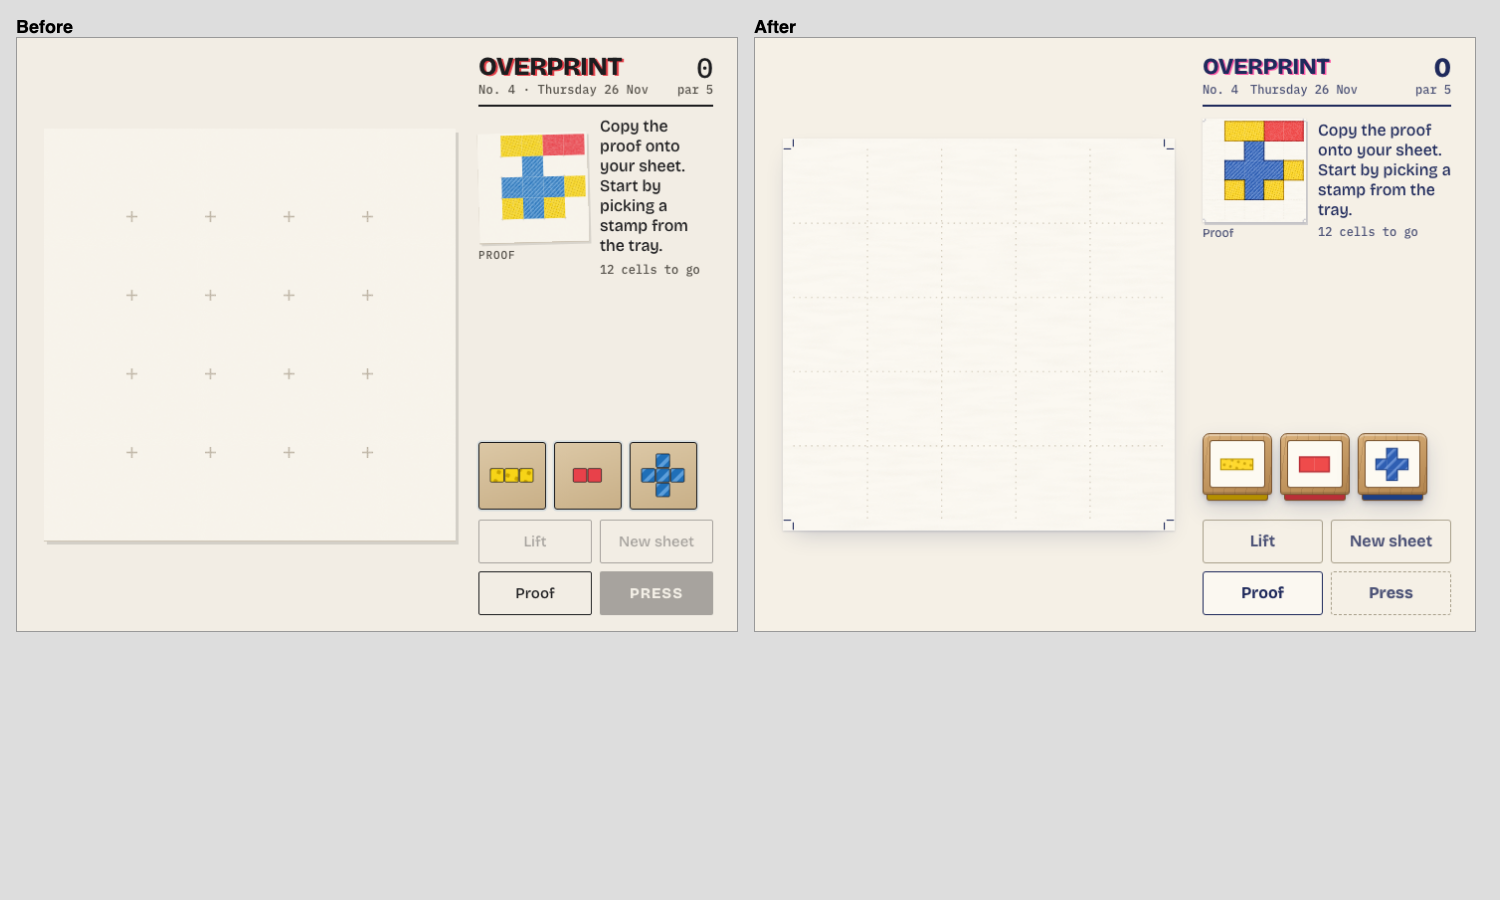
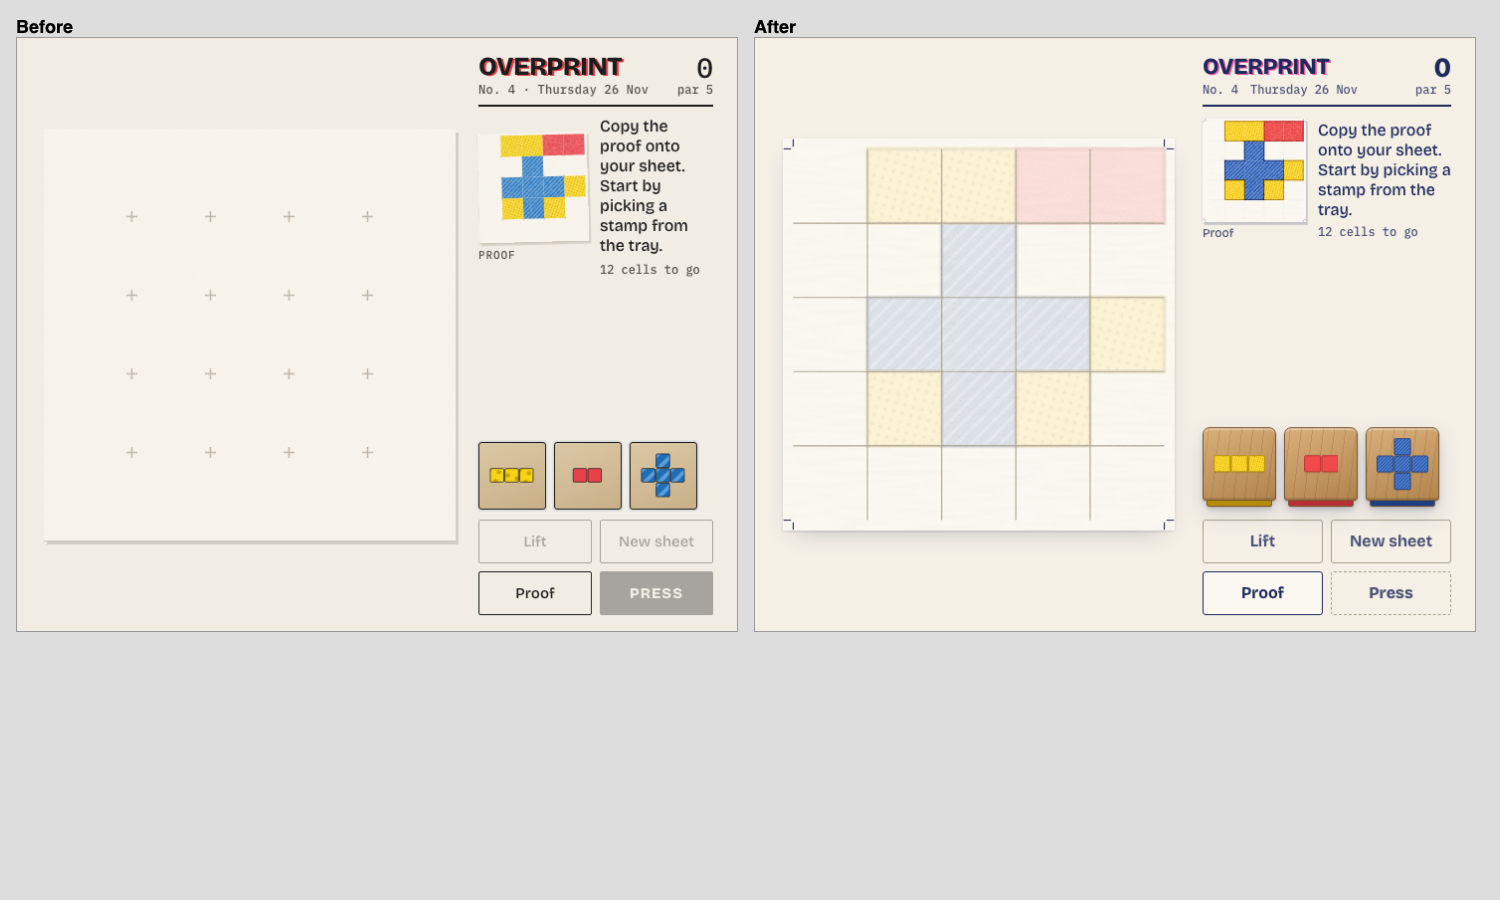
Stamp faces drawn as distinct cells at a shared cell size (splash: the target's own cell size), rubber fills the block, bigger tray tiles, faint target ghost and stronger guides on the working sheet

Changed region(s): [[0.552, 0.1556, 0.7973, 0.4978], [0.7973, 0.4667, 0.9813, 0.5911]]

diff --git a/src/client/StampButton.tsx b/src/client/StampButton.tsx
@@ -1,38 +1,46 @@
 import { shapeOf, type Stamp } from '../shared/engine';
 import { INK_NAME, INK_TEXTURE_NAME, INK_VAR, InkDefs, inkFill } from './ink';
 
-/** The index label on top of a stamp block: the design, printed once in its ink. */
-export function StampGlyph({ stamp, idPrefix }: { stamp: Stamp; idPrefix: string }) {
-  const shape = shapeOf(stamp.shape);
+export function shapeDims(stamp: Stamp): { rows: number; cols: number } {
   let rows = 0;
   let cols = 0;
-  for (const [r, c] of shape) {
+  for (const [r, c] of shapeOf(stamp.shape)) {
     rows = Math.max(rows, r + 1);
     cols = Math.max(cols, c + 1);
   }
-  const u = 20;
-  const span = Math.max(rows, cols) * u + 6;
-  const ox = (span - cols * u) / 2;
-  const oy = (span - rows * u) / 2;
+  return { rows, cols };
+}
+
+/**
+ * The rubber face: one square per cell, the same proportions as a cell on the sheet, so the
+ * number of cells reads at a glance. Its size comes from the CSS variable --cell.
+ */
+export function StampFace({ stamp, idPrefix }: { stamp: Stamp; idPrefix: string }) {
+  const { rows, cols } = shapeDims(stamp);
+  const u = 100;
+  const gap = 7;
   const id = `${idPrefix}-${stamp.id}`;
-  const set = new Set(shape.map(([r, c]) => `${r},${c}`));
-  // outline of the printed design, so it reads as one rubber face rather than tiles
-  const d: string[] = [];
-  for (const [r, c] of shape) {
-    const x = ox + c * u;
-    const y = oy + r * u;
-    if (!set.has(`${r - 1},${c}`)) d.push(`M${x} ${y}H${x + u}`);
-    if (!set.has(`${r + 1},${c}`)) d.push(`M${x} ${y + u}H${x + u}`);
-    if (!set.has(`${r},${c - 1}`)) d.push(`M${x} ${y}V${y + u}`);
-    if (!set.has(`${r},${c + 1}`)) d.push(`M${x + u} ${y}V${y + u}`);
-  }
   return (
-    <svg viewBox={`-3 -3 ${span + 6} ${span + 6}`} aria-hidden="true" className="stamp-glyph">
+    <svg
+      viewBox={`0 0 ${cols * u} ${rows * u}`}
+      aria-hidden="true"
+      className="stamp-face"
+      style={{ width: `calc(var(--cell) * ${cols})`, height: `calc(var(--cell) * ${rows})` }}
+    >
       <InkDefs id={id} />
-      {shape.map(([r, c], i) => (
-        <rect key={i} x={ox + c * u} y={oy + r * u} width={u + 0.3} height={u + 0.3} fill={inkFill(id, stamp.ink)} />
+      {shapeOf(stamp.shape).map(([r, c], i) => (
+        <rect
+          key={i}
+          x={c * u + gap / 2}
+          y={r * u + gap / 2}
+          width={u - gap}
+          height={u - gap}
+          rx="6"
+          fill={inkFill(id, stamp.ink)}
+          strokeWidth="5"
+          style={{ stroke: INK_VAR[stamp.ink].edge }}
+        />
       ))}
-      <path d={d.join('')} fill="none" strokeWidth="2" strokeLinecap="square" style={{ stroke: INK_VAR[stamp.ink].edge }} />
     </svg>
   );
 }
@@ -41,14 +49,33 @@ export function stampLabel(stamp: Stamp): string {
   return `${INK_NAME[stamp.ink]} stamp, ${INK_TEXTURE_NAME[stamp.ink]}, ${shapeOf(stamp.shape).length} cells`;
 }
 
-/** A rubber stamp seen from above: a wooden block, its paper index label, and the inked rubber lip. */
-export function StampBlock({ stamp, idPrefix }: { stamp: Stamp; idPrefix: string }) {
+/**
+ * A rubber stamp seen from above: the inked rubber face mounted on a wooden block, with the
+ * rubber's edge showing under the front of the block. `slot` sizes the block (in cells) so a
+ * set of blocks can share one size; without it the block hugs its own face.
+ */
+export function StampBlock({
+  stamp,
+  idPrefix,
+  slot,
+}: {
+  stamp: Stamp;
+  idPrefix: string;
+  slot?: { rows: number; cols: number };
+}) {
+  const own = shapeDims(stamp);
+  const s = slot ?? own;
   return (
-    <span className="block" style={{ ['--rubber' as string]: INK_VAR[stamp.ink].edge }}>
+    <span
+      className="block"
+      style={{
+        ['--rubber' as string]: INK_VAR[stamp.ink].edge,
+        ['--slot-cols' as string]: s.cols,
+        ['--slot-rows' as string]: s.rows,
+      }}
+    >
       <span className="block-top">
-        <span className="block-label">
-          <StampGlyph stamp={stamp} idPrefix={idPrefix} />
-        </span>
+        <StampFace stamp={stamp} idPrefix={idPrefix} />
       </span>
       <span className="block-lip" aria-hidden="true" />
     </span>
@@ -60,11 +87,13 @@ export function StampButton({
   stamp,
   selected,
   uses,
+  slot,
   onSelect,
 }: {
   stamp: Stamp;
   selected: boolean;
   uses: number;
+  slot: { rows: number; cols: number };
   onSelect: () => void;
 }) {
   return (
@@ -75,7 +104,7 @@ export function StampButton({
       aria-label={`${stampLabel(stamp)}${uses ? `, pressed ${uses} times` : ''}`}
       onClick={onSelect}
     >
-      <StampBlock stamp={stamp} idPrefix="tray" />
+      <StampBlock stamp={stamp} idPrefix="tray" slot={slot} />
       {uses > 0 && <span className="stamp-uses">{uses}</span>}
     </button>
   );

diff --git a/src/client/styles.css b/src/client/styles.css
@@ -467,10 +467,20 @@ button {
 
 /* ---------- stamp blocks ---------- */
 
+/* tray: every block the same size; faces share one cell size so cell counts compare at a glance */
+.tray {
+  --tile: 96px;
+  --cell: calc((var(--tile) - 22px) / var(--slot));
+}
+
+.tray.n4 {
+  --tile: 80px;
+}
+
 .stamp {
   position: relative;
-  width: 76px;
-  height: 80px;
+  width: var(--tile);
+  height: calc(var(--tile) + 6px);
   padding: 0;
   border: 0;
   background: none;
@@ -478,21 +488,25 @@ button {
   transition: transform var(--dur-short) var(--ease-out);
 }
 
-.block {
+.stamp .block {
   position: absolute;
-  inset: 0 0 6px;
-  display: flex;
+  inset: 0;
+}
+
+.block {
+  display: inline-flex;
   flex-direction: column;
   border-radius: 7px;
   filter: drop-shadow(0 3px 2px var(--shade)) drop-shadow(0 8px 10px var(--shade));
   transition: filter var(--dur-short) var(--ease-out);
 }
 
-/* the top of the block: end grain, a bevel, and the paper label with the design on it */
+/* the block: end grain and a bevel, with the inked rubber face mounted on it */
 .block-top {
   flex: 1;
   display: grid;
   place-items: center;
+  padding: var(--s-2);
   border-radius: 7px 7px 3px 3px;
   border: 1.5px solid var(--wood-edge);
   background:
@@ -503,24 +517,12 @@ button {
     inset 0 -2px 0 var(--bevel-lo);
 }
 
-.block-label {
-  width: 78%;
-  height: 78%;
-  display: grid;
-  place-items: center;
-  padding: var(--s-1);
-  border-radius: 2px;
-  background: var(--label);
-  box-shadow: 0 0 0 1px var(--wood-edge);
-}
-
-.stamp-glyph {
+.stamp-face {
   display: block;
-  width: 100%;
-  height: 100%;
+  filter: drop-shadow(0 1px 0 var(--bevel-lo));
 }
 
-/* the rubber, inked, showing under the front edge of the block */
+/* the rubber's edge, inked, showing under the front of the block */
 .block-lip {
   height: 6px;
   margin: 0 var(--s-1);
@@ -543,7 +545,7 @@ button {
   position: absolute;
   left: 18%;
   right: 18%;
-  bottom: -10px;
+  bottom: -12px;
   height: 3px;
   border-radius: 2px;
   background: var(--ink);
@@ -564,6 +566,11 @@ button {
   font-family: var(--font-mono);
   font-size: var(--t-xs);
   font-variant-numeric: tabular-nums;
+}
+
+/* the faint target on a working sheet: where to aim */
+.aim {
+  opacity: 0.16;
 }
 
 /* ---------- onboarding: a soft pulse on what to touch next ---------- */
@@ -769,10 +776,16 @@ svg.coach {
   gap: clamp(8px, 3vw, 16px);
 }
 
+.equation {
+  --sheet-size: min(36vw, 30vh, 230px);
+  --cell: calc(var(--sheet-size) * 100 / 528);
+}
+
 .splash-sheet {
   display: block;
-  width: min(44vw, 40vh, 230px);
-  height: min(44vw, 40vh, 230px);
+  flex-shrink: 0;
+  width: var(--sheet-size);
+  height: var(--sheet-size);
   box-shadow:
     0 1px 2px var(--shade),
     0 10px 20px -10px var(--shade-deep);
@@ -795,19 +808,20 @@ svg.coach {
   list-style: none;
   margin: 0;
   padding: 0;
-  display: grid;
-  grid-template-columns: repeat(2, auto);
+  display: flex;
+  flex-wrap: wrap;
+  align-items: flex-end;
+  justify-content: center;
   gap: var(--s-2);
-}
-
-.eq-stamps.n2 {
-  grid-template-columns: auto;
+  max-width: 100%;
 }
 
 .eq-stamp {
-  position: relative;
-  width: min(17vw, 15vh, 76px);
-  height: min(18vw, 16vh, 80px);
+  display: flex;
+}
+
+.eq-stamp .block-top {
+  padding: 6px;
 }
 
 .eq-presses {
@@ -833,16 +847,10 @@ svg.coach {
   justify-content: center;
 }
 
+
 @media (min-width: 560px) {
-  .eq-stamps,
-  .eq-stamps.n2 {
-    grid-template-columns: repeat(4, auto);
-  }
-  .eq-stamps.n2 {
-    grid-template-columns: repeat(2, auto);
-  }
-  .eq-stamps.n3 {
-    grid-template-columns: repeat(3, auto);
+  .equation {
+    --sheet-size: min(40vh, 230px);
   }
 }
 
@@ -871,9 +879,8 @@ svg.coach {
   .app .tray {
     gap: var(--s-2);
   }
-  .app .stamp {
-    width: 70px;
-    height: 74px;
+  .app .tray {
+    --tile: 74px;
   }
 }
 

diff --git a/src/client/game.tsx b/src/client/game.tsx
@@ -10,7 +10,7 @@ import { nextTitle, titleFor } from '../shared/titles';
 import { clearDraft, fetchState, loadDraft, saveDraft, sendComplete, shareResult, wearFlair } from './api';
 import { journey } from './journey';
 import { Sheet, placeAt } from './Sheet';
-import { StampButton } from './StampButton';
+import { StampButton, shapeDims } from './StampButton';
 import { InkChip } from './ink';
 import { duration, longDate, parLine, untilNextPrint } from './format';
 import { postDate } from './context';
@@ -305,6 +305,8 @@ export function App() {
     setGhost(null);
   };
 
+  // every tray block is the same size, with faces drawn at one shared cell size
+  const slotSize = Math.max(2, ...puzzle.stamps.map((s) => Math.max(shapeDims(s).rows, shapeDims(s).cols)));
   const uses = (id: string) => draft.presses.filter((p) => p.stamp === id).length;
   const elapsed = draft.startedAt && !finished ? Math.max(0, now - draft.startedAt) : 0;
 
@@ -362,17 +364,23 @@ export function App() {
           fresh={fresh}
           ghost={stamp && ghost && !finished ? { stamp, ...ghost } : null}
           overlay={comparing ? puzzle.target : null}
+          aim={finished ? null : puzzle.target}
           onPointerCell={finished ? undefined : onCell}
           className={`work-sheet ${solvedNow || finished ? 'is-done' : ''} ${stamp && !ghost && !finished && draft.presses.length === 0 ? 'coach' : ''}`}
         />
       </section>
 
-      <section className={`tray ${!finished && !stamp && draft.presses.length === 0 ? 'coach' : ''}`} aria-label="Stamps">
+      <section
+        className={`tray ${!finished && !stamp && draft.presses.length === 0 ? 'coach' : ''} n${puzzle.stamps.length}`}
+        aria-label="Stamps"
+        style={{ ['--slot' as string]: slotSize }}
+      >
         {puzzle.stamps.map((s) => (
           <StampButton
             key={s.id}
             stamp={s}
             uses={uses(s.id)}
+            slot={{ rows: slotSize, cols: slotSize }}
             selected={selected === s.id}
             onSelect={() => {
               // Re-tapping the selected stamp keeps it selected, so "tap stamp, tap sheet" never loses a press.

diff --git a/src/client/Sheet.tsx b/src/client/Sheet.tsx
@@ -93,6 +93,8 @@ type Props = {
   className?: string | undefined;
   /** Stronger cell lines so a flat print reads as a puzzle grid. */
   grid?: boolean | undefined;
+  /** A faint ghost of the target under the presses, so a fresh sheet shows where to aim. */
+  aim?: readonly Cell[] | null | undefined;
 };
 
 function flatRegions(svgId: string, cells: readonly Cell[]) {
@@ -102,7 +104,7 @@ function flatRegions(svgId: string, cells: readonly Cell[]) {
   });
 }
 
-export function Sheet({ id, label, stamps, flat, presses, fresh, ghost, overlay, onPointerCell, className, grid }: Props) {
+export function Sheet({ id, label, stamps, flat, presses, fresh, ghost, overlay, onPointerCell, className, grid, aim }: Props) {
   const ref = useRef<SVGSVGElement>(null);
   const dragging = useRef(false);
 
@@ -182,7 +184,8 @@ export function Sheet({ id, label, stamps, flat, presses, fresh, ghost, overlay,
 
       <rect x={-M} y={-M} width={VB + 2 * M} height={VB + 2 * M} className="sheet-paper" />
       <rect x={-M} y={-M} width={VB + 2 * M} height={VB + 2 * M} filter={`url(#${id}-fibre)`} className="sheet-fibre" />
-      <Guides strong={!!grid} />
+      {aim && <g className="aim">{flatRegions(id, aim)}</g>}
+      <Guides strong={!!grid || !!aim} />
 
       {flat && flatRegions(id, flat)}
 
